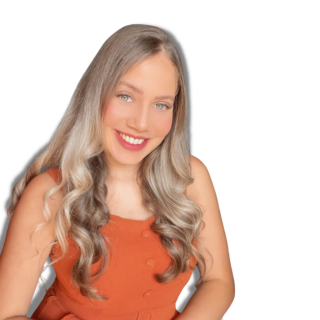
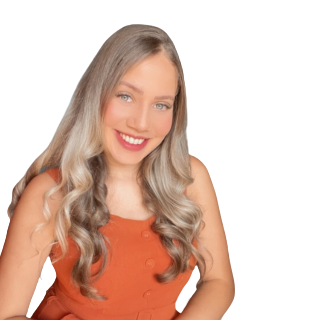
initial css

diff --git a/index.html b/index.html
@@ -1,12 +1,17 @@
 <!DOCTYPE html>
 <html lang="pt-BR">
+
 <head>
   <meta charset="UTF-8">
   <meta http-equiv="X-UA-Compatible" content="IE=edge">
   <meta name="viewport" content="width=device-width, initial-scale=1.0">
+  <link rel="preconnect" href="https://fonts.googleapis.com">
+  <link rel="preconnect" href="https://fonts.gstatic.com" crossorigin>
+  <link href="https://fonts.googleapis.com/css2?family=Inter:wght@300;400;500;700;900&display=swap" rel="stylesheet">
   <link rel="stylesheet" href="style.css">
   <title>Receitas De No Máximo 3 Ingredientes</title>
 </head>
+
 <body>
   <div class="container">
     <header>
@@ -46,14 +51,15 @@
           Saiba como preparar diversas receitas com no máximo 3 ingredientes
         </h1>
         <p>
-          Se você nunca mais quer ficar em dúvida do que comer, no lanche da tarde, no café da manhã, ou em qualquer outro momento do dia, esse E-book é para você!
+          Se você nunca mais quer ficar em dúvida do que comer, no lanche da tarde, no café da manhã, ou em qualquer
+          outro momento do dia, esse E-book é para você!
         </p>
         <div class="video__button ">
           Assista o vídeo
         </div>
       </div>
       <div class="hero">
-        <img src="./assets/nathy.png" alt="Foto da Nathalia Oliveira">
+        <img src="./assets/nathy4.png" alt="Foto da Nathalia Oliveira">
       </div>
     </section>
     <section id="receive">
@@ -84,13 +90,15 @@
       </h2>
       <ol>
         <li>
-          Para quem gosta de praticidade e de um passo a passo super dinâmico, explicando o modo de preparo das receitas, com imagens ilustrando tudo.
+          Para quem gosta de praticidade e de um passo a passo super dinâmico, explicando o modo de preparo das
+          receitas, com imagens ilustrando tudo.
         </li>
         <li>
           Para quem sempre fica sem ideias do que comer, quando dá aquela vontade de comer algo diferente.
         </li>
         <li>
-          Para quem já adquiriu algum livro de receitas, porém desistiu de segui-lo, por causa das receitas precisarem de muitos ingredientes, ou até mesmo por não conter um passo a passo resumido e fácil de seguir.
+          Para quem já adquiriu algum livro de receitas, porém desistiu de segui-lo, por causa das receitas precisarem
+          de muitos ingredientes, ou até mesmo por não conter um passo a passo resumido e fácil de seguir.
         </li>
         <li>
           Para quem não gosta de comprar vários ingredientes para preparar algo.
@@ -108,10 +116,16 @@
         <img src="./assets/nathy.png" alt="Foto de Nathalia">
       </div>
       <p>
-        Me chamo Nathalia Oliveira sou Nutricionista pós graduada em nutrição clínica. Atualmente ajudo milhares de pessoas através do meu perfil do Instagram com inúmeras orientações sobre como ter uma alimentação saudável, equilibrada e sem restrições. Adquirindo um novo estilo de vida e conquistando além da saúde um emagrecimento sustentável.
+        Me chamo Nathalia Oliveira sou Nutricionista pós graduada em nutrição clínica. Atualmente ajudo milhares de
+        pessoas através do meu perfil do Instagram com inúmeras orientações sobre como ter uma alimentação saudável,
+        equilibrada e sem restrições. Adquirindo um novo estilo de vida e conquistando além da saúde um emagrecimento
+        sustentável.
       </p>
       <p>
-        Resolvi criar esse e-book para ajudar quem sempre fica na dúvida do que comer quando der aquela vontade de comer um docinho ou algo de diferente, até mesmo para quem quer variar as refeições do dia a dia. Pois são diversas opções de doces e salgadas. Simples, rápida e fácil de fazer, ajudando até quem não tem muito tempo de ficar na cozinha preparando algo. 
+        Resolvi criar esse e-book para ajudar quem sempre fica na dúvida do que comer quando der aquela vontade de comer
+        um docinho ou algo de diferente, até mesmo para quem quer variar as refeições do dia a dia. Pois são diversas
+        opções de doces e salgadas. Simples, rápida e fácil de fazer, ajudando até quem não tem muito tempo de ficar na
+        cozinha preparando algo.
       </p>
     </section>
     <section id="getNow">
@@ -145,4 +159,5 @@
     </section>
   </div>
 </body>
+
 </html>

diff --git a/style.css b/style.css
@@ -1,13 +1,103 @@
-/* * {
+* {
   margin: 0;
   padding: 0;
   box-sizing: border-box;
-} */
+  scroll-behavior: smooth;
+  font-family: 'Inter', sans-serif;
+}
 
 html {
   font-size: 16px;
 }
 
-body {
+header nav {
+  position: fixed;
+  top: 0;
+  left: 0;
+  width: 100%;
+  padding: 1.25rem 6.25rem;
+  display: flex;
+  justify-content: space-between;
+  align-items: center;
+  z-index: 10000;
+  backdrop-filter: blur(20px);
+}
+
+header nav ul {
+  position: relative;
+  display: flex;
+  gap: 2.5rem
+}
+
+header nav ul li {
+  list-style: none;
+}
+
+header nav ul li a {
+  text-decoration: none;
+  color: #fff;
+  font-weight: 500;
+  font-size: 1.25rem;
+}
+
+#home {
+  position: relative;
+  width: 100%;
   min-height: 100vh;
+  background: #222;
+  display: flex;
+  justify-content: space-between;
+  align-items: center;
+  padding: 6.25rem;
+}
+
+#home .content {
+  position: relative;
+  display: flex;
+  flex-direction: column;
+  gap: 0.625rem;
+  max-width: 43.75rem;
+  z-index: 10;
+}
+
+#home .content h1 {
+  position: relative;
+  font-size: 4.5rem;
+  color: #fff;
+}
+
+#home .content p {
+  position: relative;
+  color: #fff;
+  font-size: 1.2rem;
+  line-height: 2.6rem;
+}
+
+#home .hero {
+  height: 40rem;
+  width: 40rem;
+  background: red;
+  border-radius: 50%;
+  overflow: hidden;
+  position: absolute;
+  bottom: 20;
+  right: 6.25rem;
+  max-height: 90vh;
+}
+
+#home .hero img {
+  width: 100%;
+}
+
+#receive,
+#forWho,
+#whoami,
+#getNow {
+  position: relative;
+  background: #3434353a;
+  min-height: 100vh;
+  padding: 7.5rem 6.25rem;
+  display: flex;
+  justify-content: center;
+  flex-direction: column;
 }
